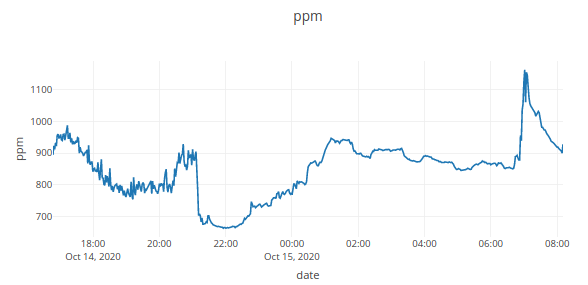
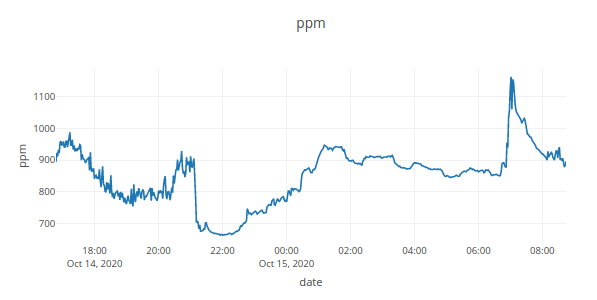
update

diff --git a/_site/index.html b/_site/index.html
@@ -1854,7 +1854,8 @@ interface = meshtastic.StreamInterface()
         <p><h2>TODO</h2>
 <p>14 OCT 2020</p>
 <ul>
-<li>set up / test heltec gateway again</li>
+<li>set up / test heltec gateway again to send to FarmOS [X]</li>
+<li>also send to custom server on DO;</li>
 <li>use <a href="https://www.circuits.dk/testing-mh-z19-ndir-co2-sensor-module/">this article</a> and make an arduino module for reading from the Z19.</li>
 </ul>
 <h2>Table of contents</h2>
@@ -2153,7 +2154,7 @@ Another option</p>
 <h2>Programming with Feather</h2>
 <p>Add this to Boards Manager:</p>
 <p><code>https://adafruit.github.io/arduino-board-index/package_adafruit_index.json</code></p>
-<h2>CO2 with K30 to FarmOS</h2>
+<h2><a name="co2_farmos_overnight"></a> CO2 with K30 to FarmOS</h2>
 <p>Oct 14 2020</p>
 <table>
 <thead>
@@ -2163,7 +2164,7 @@ Another option</p>
 </thead>
 <tbody>
 <tr>
-<td style="text-align:center">Posting CO2 PPM data from a K30 to FarmOS.</td>
+<td style="text-align:center">Posting CO2 PPM data from a K30 to FarmOS, measuring overnight from 14 OCT to 15 OCT 2020.</td>
 </tr>
 </tbody>
 </table>

diff --git a/posts/notes/co2.md b/posts/notes/co2.md
@@ -11,7 +11,8 @@ blurb: Notes on inexpensive CO2 monitoring options
 ## TODO
 
 14 OCT 2020
-- set up / test heltec gateway again
+- set up / test heltec gateway again to send to FarmOS [X]
+- also send to custom server on DO;
 - use [this article](https://www.circuits.dk/testing-mh-z19-ndir-co2-sensor-module/) and make an arduino module for reading from the Z19.
 
 
@@ -256,13 +257,13 @@ Add this to Boards Manager:
 ```https://adafruit.github.io/arduino-board-index/package_adafruit_index.json```
 
 
-## CO2 with K30 to FarmOS
+## <a name="co2_farmos_overnight"></a> CO2 with K30 to FarmOS
 
 Oct 14 2020
 
 |[ ![figB](/img/co2/co2_farmos.png)](/img/co2/co2_farmos.png)|
 |:--:|
-| Posting CO2 PPM data from a K30 to FarmOS. |
+| Posting CO2 PPM data from a K30 to FarmOS, measuring overnight from 14 OCT to 15 OCT 2020. |
 
 ## CO2 with custom server
 
